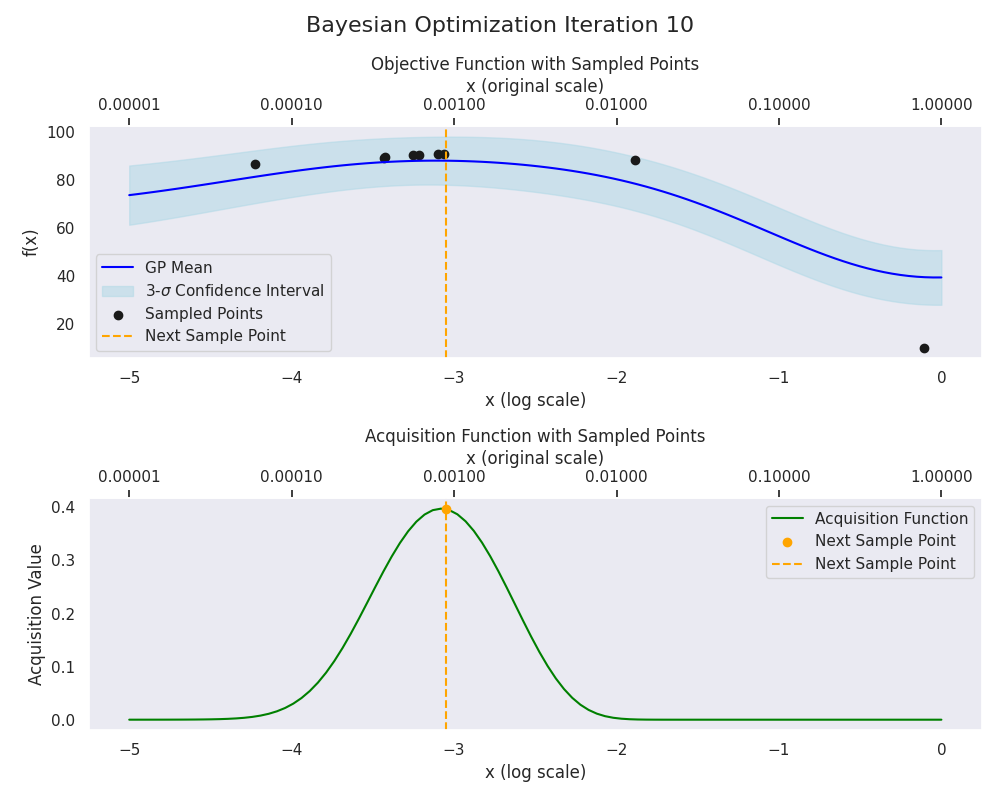
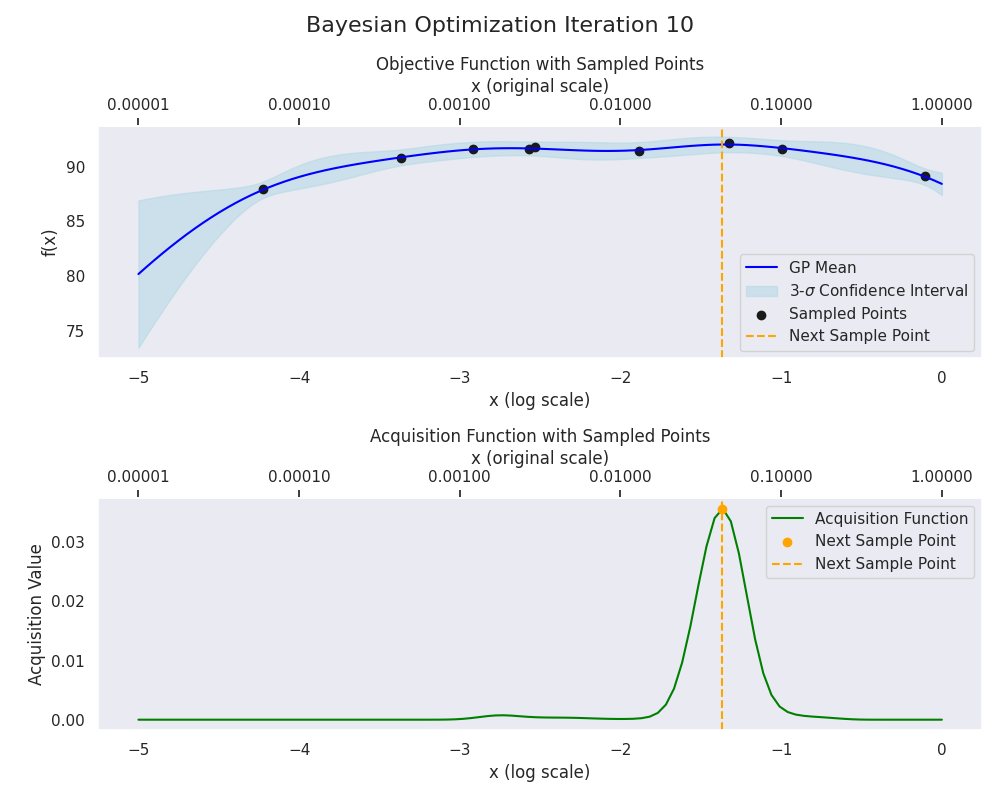
tuning kernel prior

diff --git a/bo/bo.py b/bo/bo.py
@@ -3,6 +3,7 @@ import sys
 from copy import deepcopy
 
 import gpytorch
+import matplotlib
 import matplotlib.pyplot as plt
 import numpy as np
 import seaborn as sns
@@ -13,6 +14,9 @@ from scipy.optimize import minimize
 from scipy.stats import qmc
 
 import wandb
+
+matplotlib.use('Agg')
+
 
 # check whether helper.py is in the system path
 try:
@@ -115,13 +119,13 @@ class ExactGP(gpytorch.models.ExactGP):
             )
 
         # Noise prior
-        if hasattr(config, 'noise_prior_mean') and \
-           hasattr(config, 'noise_prior_std'):
+        if hasattr(config, 'noise_prior_concentration') and \
+           hasattr(config, 'noise_prior_rate'):
             self.likelihood.noise_covar.register_prior(
                 'noise_prior',
-                gpytorch.priors.NormalPrior(
-                    config.noise_prior_mean,
-                    config.noise_prior_std,
+                gpytorch.priors.GammaPrior(
+                    concentration=config.noise_prior_concentration,
+                    rate=config.noise_prior_rate
                 ),
                 'noise',
             )
@@ -222,7 +226,7 @@ class BayesianOptimization:
             raise ValueError(f'Unknown initialization method: {method}')
 
         self.train_x = torch.tensor(
-            self.sampled_x, dtype=torch.float32).reshape(-1)
+            self.sampled_x, dtype=torch.float32).reshape(-1, 1)
         self.train_y = torch.tensor(
             self.sampled_y, dtype=torch.float32).reshape(-1)
 
@@ -244,14 +248,15 @@ class BayesianOptimization:
         mll = gpytorch.mlls.ExactMarginalLogLikelihood(
             self.likelihood, self.gp_model)
 
-        for _ in range(self.config.gp_num_epochs):
+        for epoch in range(self.config.gp_num_epochs):
             optimizer.zero_grad()
             output = self.gp_model(self.train_x)
             loss = -mll(output, self.train_y).sum()
             loss.backward()
             optimizer.step()
-            if _ % (self.config.gp_num_epochs / 5) == 0:
-                print(f'Epoch {_}: GP Loss = {loss.item()}')
+
+            if epoch % max(1, self.config.gp_num_epochs // 5) == 0:
+                print(f'Epoch {epoch}: GP Loss = {loss.item()}')
 
         print('Kernel parameters after fitting:')
         print(
@@ -309,6 +314,7 @@ class BayesianOptimization:
         '''
         best_x = None
         best_acquisition_value = -np.inf
+        np.random.seed(self.config.seed)
 
         for _ in range(self.config.acquisitiion_optimization_budget):
             x_0 = np.random.uniform(self.search_space[:, 0],
@@ -370,8 +376,10 @@ class BayesianOptimization:
             self.sampled_y.append(next_y)
             self.model_history.append(model_state_dict)
 
-            self.train_x = torch.tensor(self.sampled_x, dtype=torch.float32)
-            self.train_y = torch.tensor(self.sampled_y, dtype=torch.float32)
+            self.train_x = torch.tensor(
+                self.sampled_x, dtype=torch.float32).reshape(-1, 1)
+            self.train_y = torch.tensor(
+                self.sampled_y, dtype=torch.float32).reshape(-1)
 
             print(f'Iteration {i + 1}: Next x = {next_x}, Next y = {next_y}')
             # update the incumbent
@@ -442,8 +450,20 @@ class BayesianOptimization:
         ax[0].grid()
 
         # plot the acquisition function
-        acquisition_values = [self.acquisition_value_at(
-            torch.tensor([[xi]], dtype=torch.float32)).item() for xi in x]
+        x_tensor = torch.tensor(x, dtype=torch.float32).reshape(-1, 1)
+        with torch.no_grad(), gpytorch.settings.fast_pred_var():
+            self.gp_model.eval()
+            self.likelihood.eval()
+            pred = self.likelihood(self.gp_model(x_tensor))
+            mean_vec = pred.mean
+            std_vec = pred.stddev
+            incumbent = torch.max(self.train_y)
+
+            acquisition_values = []
+            for mean_val, std_val in zip(mean_vec, std_vec):
+                ei_val = self.expected_improvment(mean_val, std_val, incumbent)
+                acquisition_values.append(ei_val.item())
+
         ax[1].plot(x, acquisition_values,
                    label='Acquisition Function', color='green')
         ax[1].scatter(next_x, self.acquisition_value_at(
@@ -480,6 +500,7 @@ class BayesianOptimization:
             f'bo_iterations_results_{i + 1}.png'
         fig_path.parent.mkdir(parents=True, exist_ok=True)
         plt.savefig(fig_path)
+        plt.close(fig)
 
     def plot_bo_history(self, s=3):
         """
@@ -560,6 +581,7 @@ class BayesianOptimization:
         fig_path = self.config.results_dir / 'bo_history.png'
         fig_path.parent.mkdir(parents=True, exist_ok=True)
         plt.savefig(fig_path)
+        plt.close(fig)
 
 
 def simple_objectve_function(x):

diff --git a/helper.py b/helper.py
@@ -78,8 +78,8 @@ bo_config = Options(
     # GP parameters
     gp_num_epochs=1000,
     gp_learning_rate=0.005,
-    # kernel='RBF',
-    kernel='Matern',
+    kernel='RBF',
+    # kernel='Matern',
     lengthscale_init_mean=1.0,
     outputscale_init_mean=5,
     noise_init_var=1e-4,
@@ -105,15 +105,15 @@ task_config = Options(
     gp_learning_rate=0.005,
     # kernel='RBF',
     kernel='Matern',
-    lengthscale_init_mean=1.0,
+    lengthscale_init_mean=0.5,
     outputscale_init_mean=70,
-    noise_init_var=0.5,
-    # lengthscale_prior_mean=1.0,
-    # lengthscale_prior_std=2.0,
+    noise_init_var=0.2,
+    lengthscale_prior_mean=0.5,
+    lengthscale_prior_std=2.0,
     outputscale_prior_mean=70,
     outputscale_prior_std=20,
-    # noise_prior_mean=0.1,
-    # noise_prior_std=1.0,
+    noise_prior_concentration=1.0,  # concentration for Gamma prior
+    noise_prior_rate=1.0,
     # Bayesian Optimization parameters
     budget=10,
     init_budget=3,
